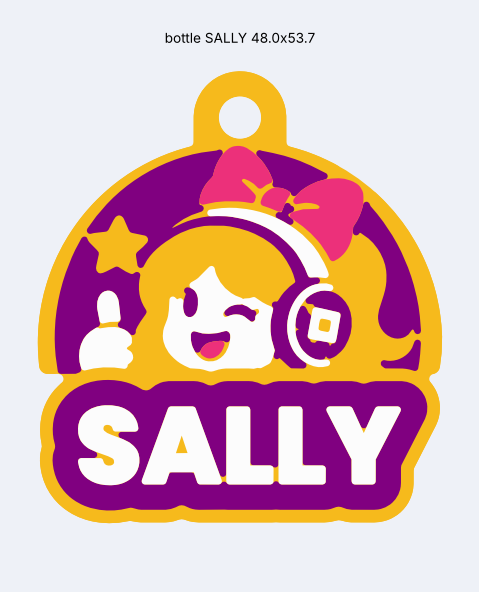
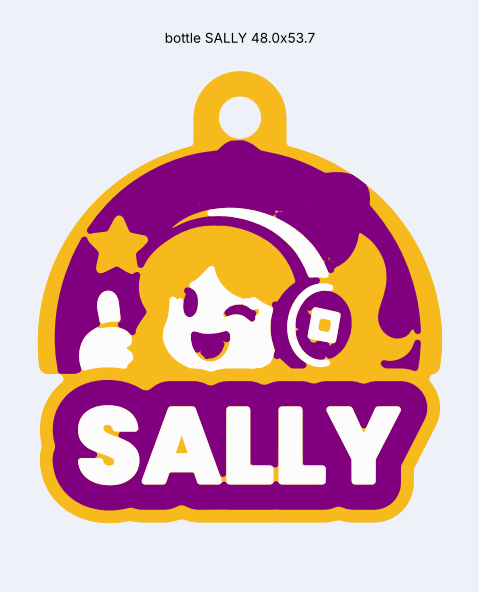
Private gamer themes: 3-colour versions (gamer3, gamer_girl3), art untouched
Claude-Session: https://claude.ai/code/session_01SotwDHT1STTNJZZpPikuEu

diff --git a/student_pack/themes.py b/student_pack/themes.py
@@ -184,6 +184,13 @@ _derive("cat", "cat2", "Cat, 2 colours (pink, white)", {"lpink": "pink", "black"
         filament_rgb={"pink": "#EC307A", "white": "#FCFCFC"}, detail=None,
         heights={"pink": 2.2, "white": 3.2}, ruler=_cat_ruler)
 
+# 3-colour versions of the private gamer themes (art untouched, one colour merged into a neighbour: chosen by comparing renders)
+_derive("gamer", "gamer3", "Gamer boy (private), 3 colours: blue merged into red", {"blue": "red"},
+        filament_rgb={"black": "#1C1C1C", "red": "#D32F2F", "white": "#F2F2F2"}, heights={"black": 2.2, "red": 2.8, "white": 3.2},
+        text_rings=[("black", 0.8), ("red", 1.5), ("black", 1.5)], ruler=dict(THEMES["gamer"]["ruler"], rim="red"))
+_derive("gamer_girl", "gamer_girl3", "Gamer girl (private), 3 colours: pink merged into purple", {"pink": "purple"},
+        filament_rgb={"yellow": "#F6BA1C", "purple": "#7B3FA0", "white": "#F2F2F2"}, heights={"yellow": 2.2, "purple": 2.8, "white": 3.2})
+
 BASE_THEMES = [k for k, v in THEMES.items() if "variant_of" not in v and not v.get("private")]   # sold themes (catalog, site, orders)
 PRIVATE_THEMES = [k for k, v in THEMES.items() if v.get("private")]
 
